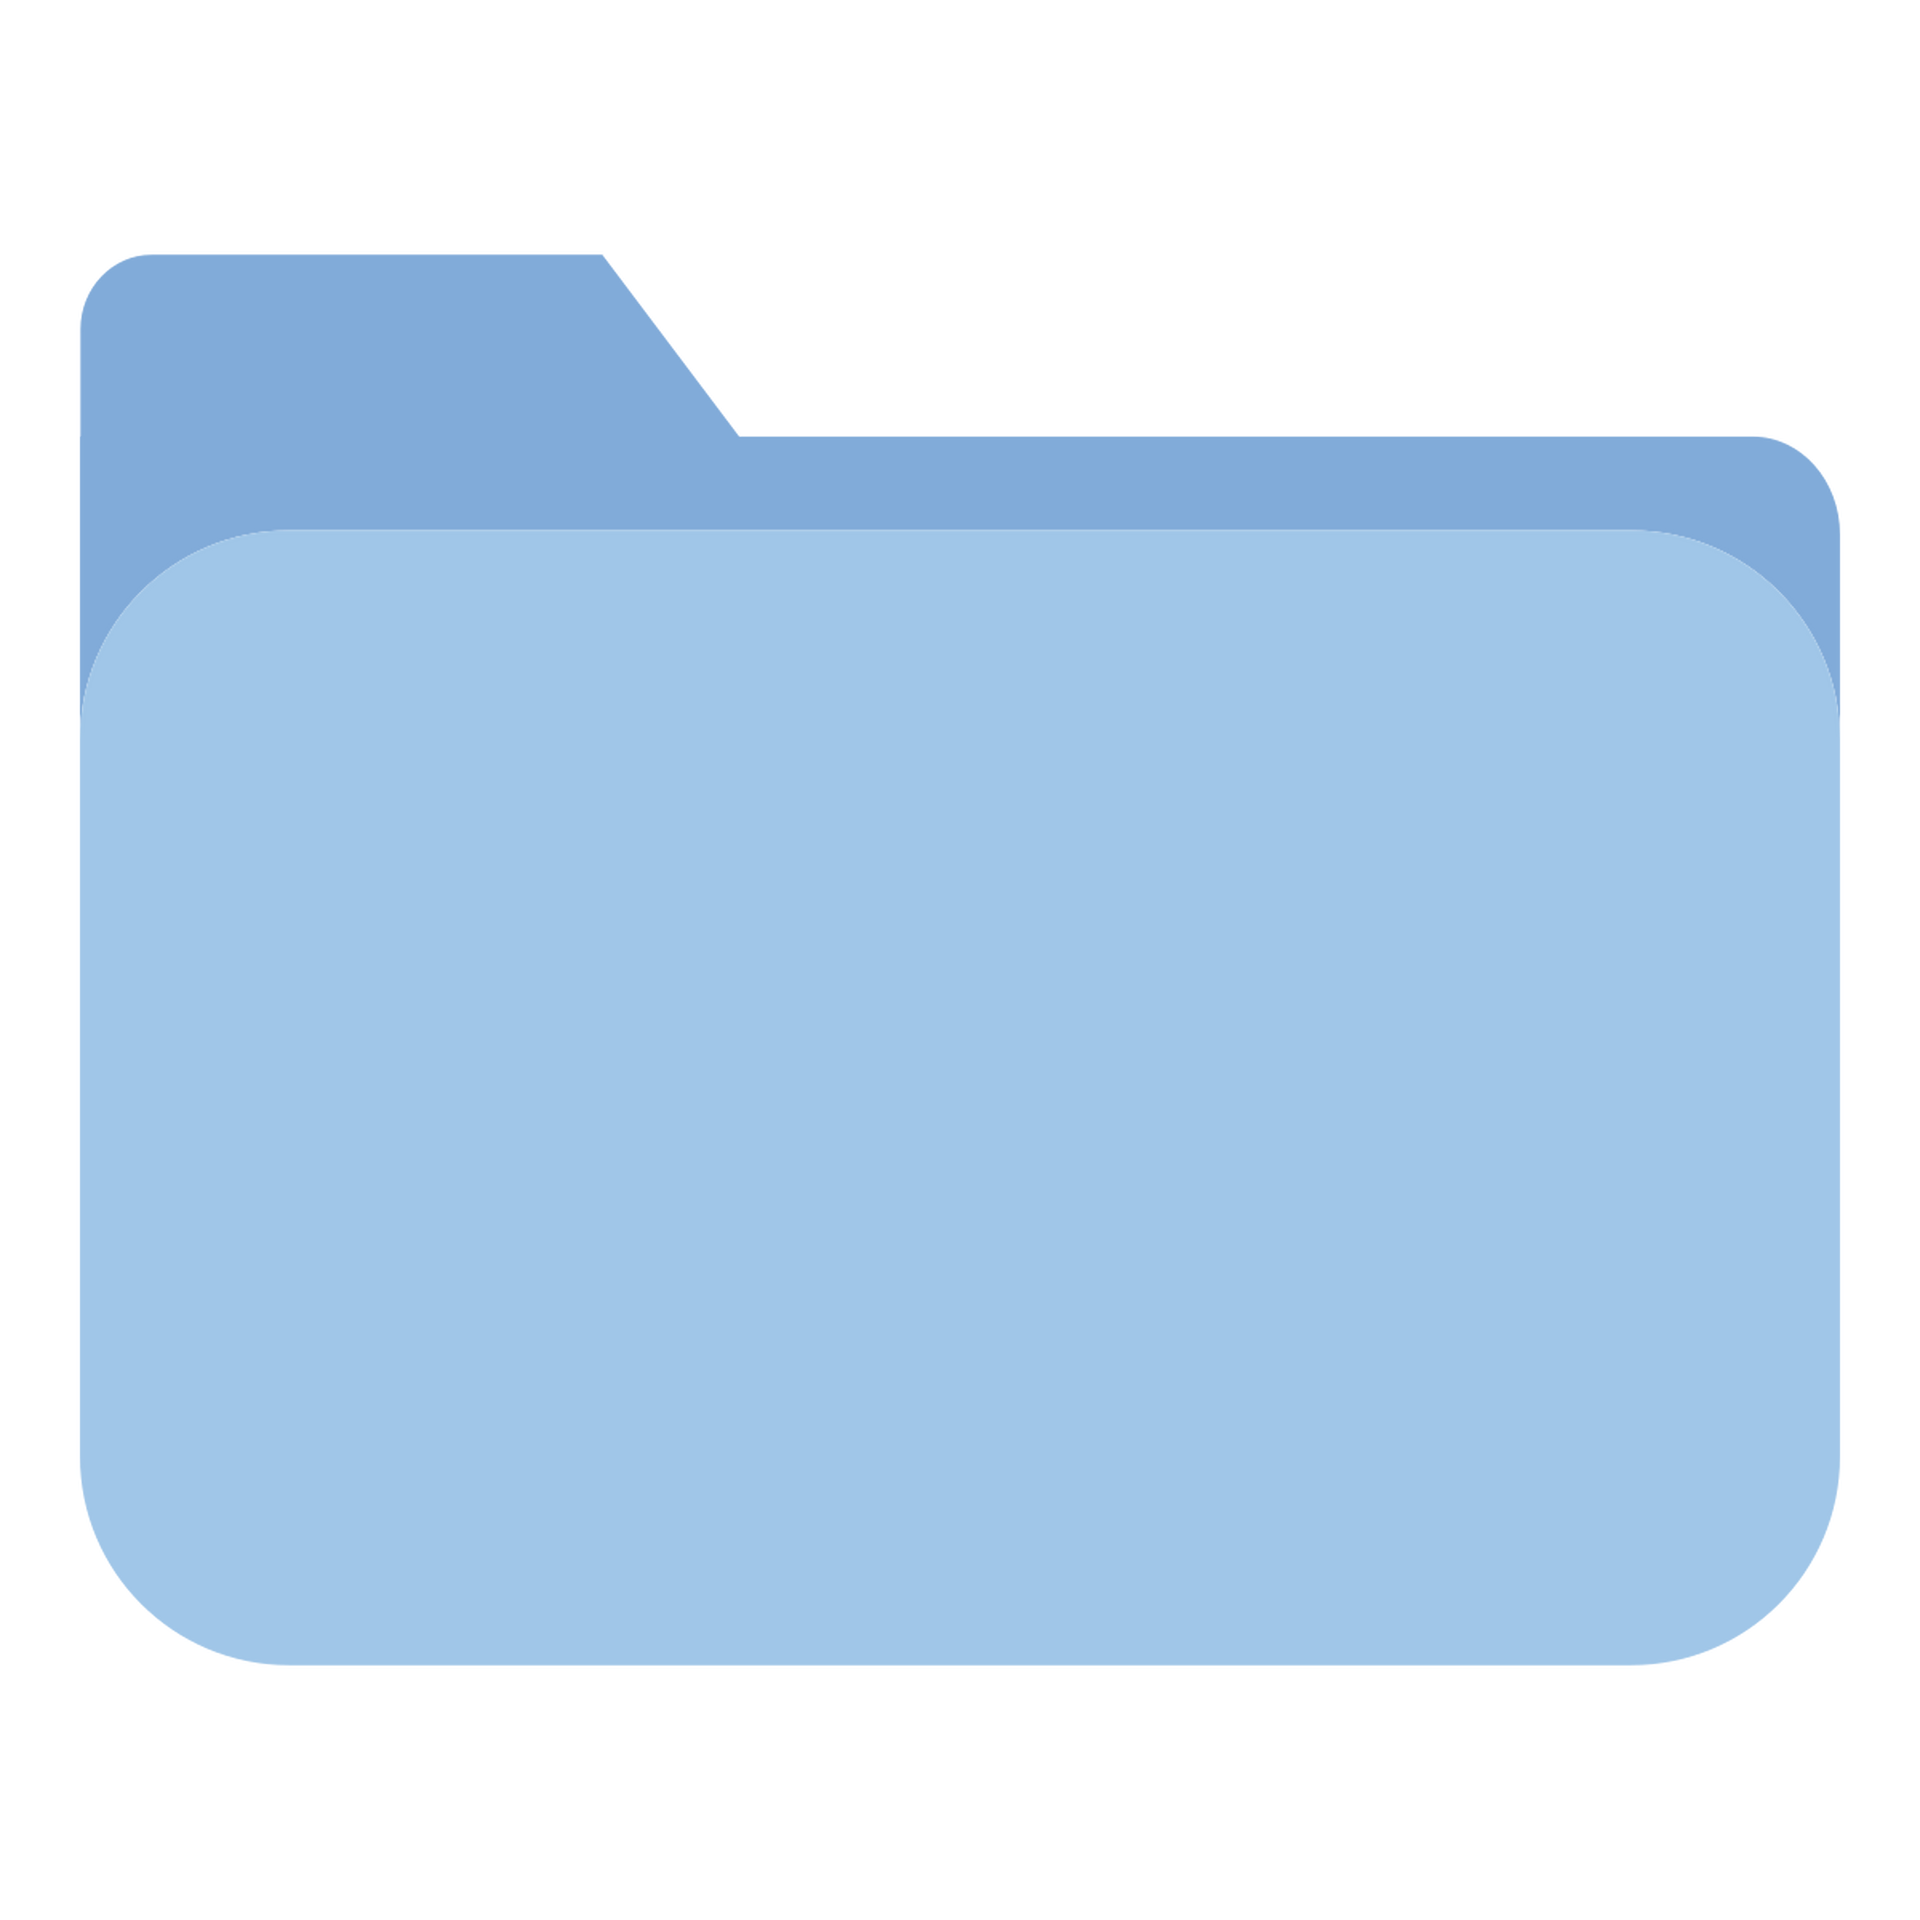
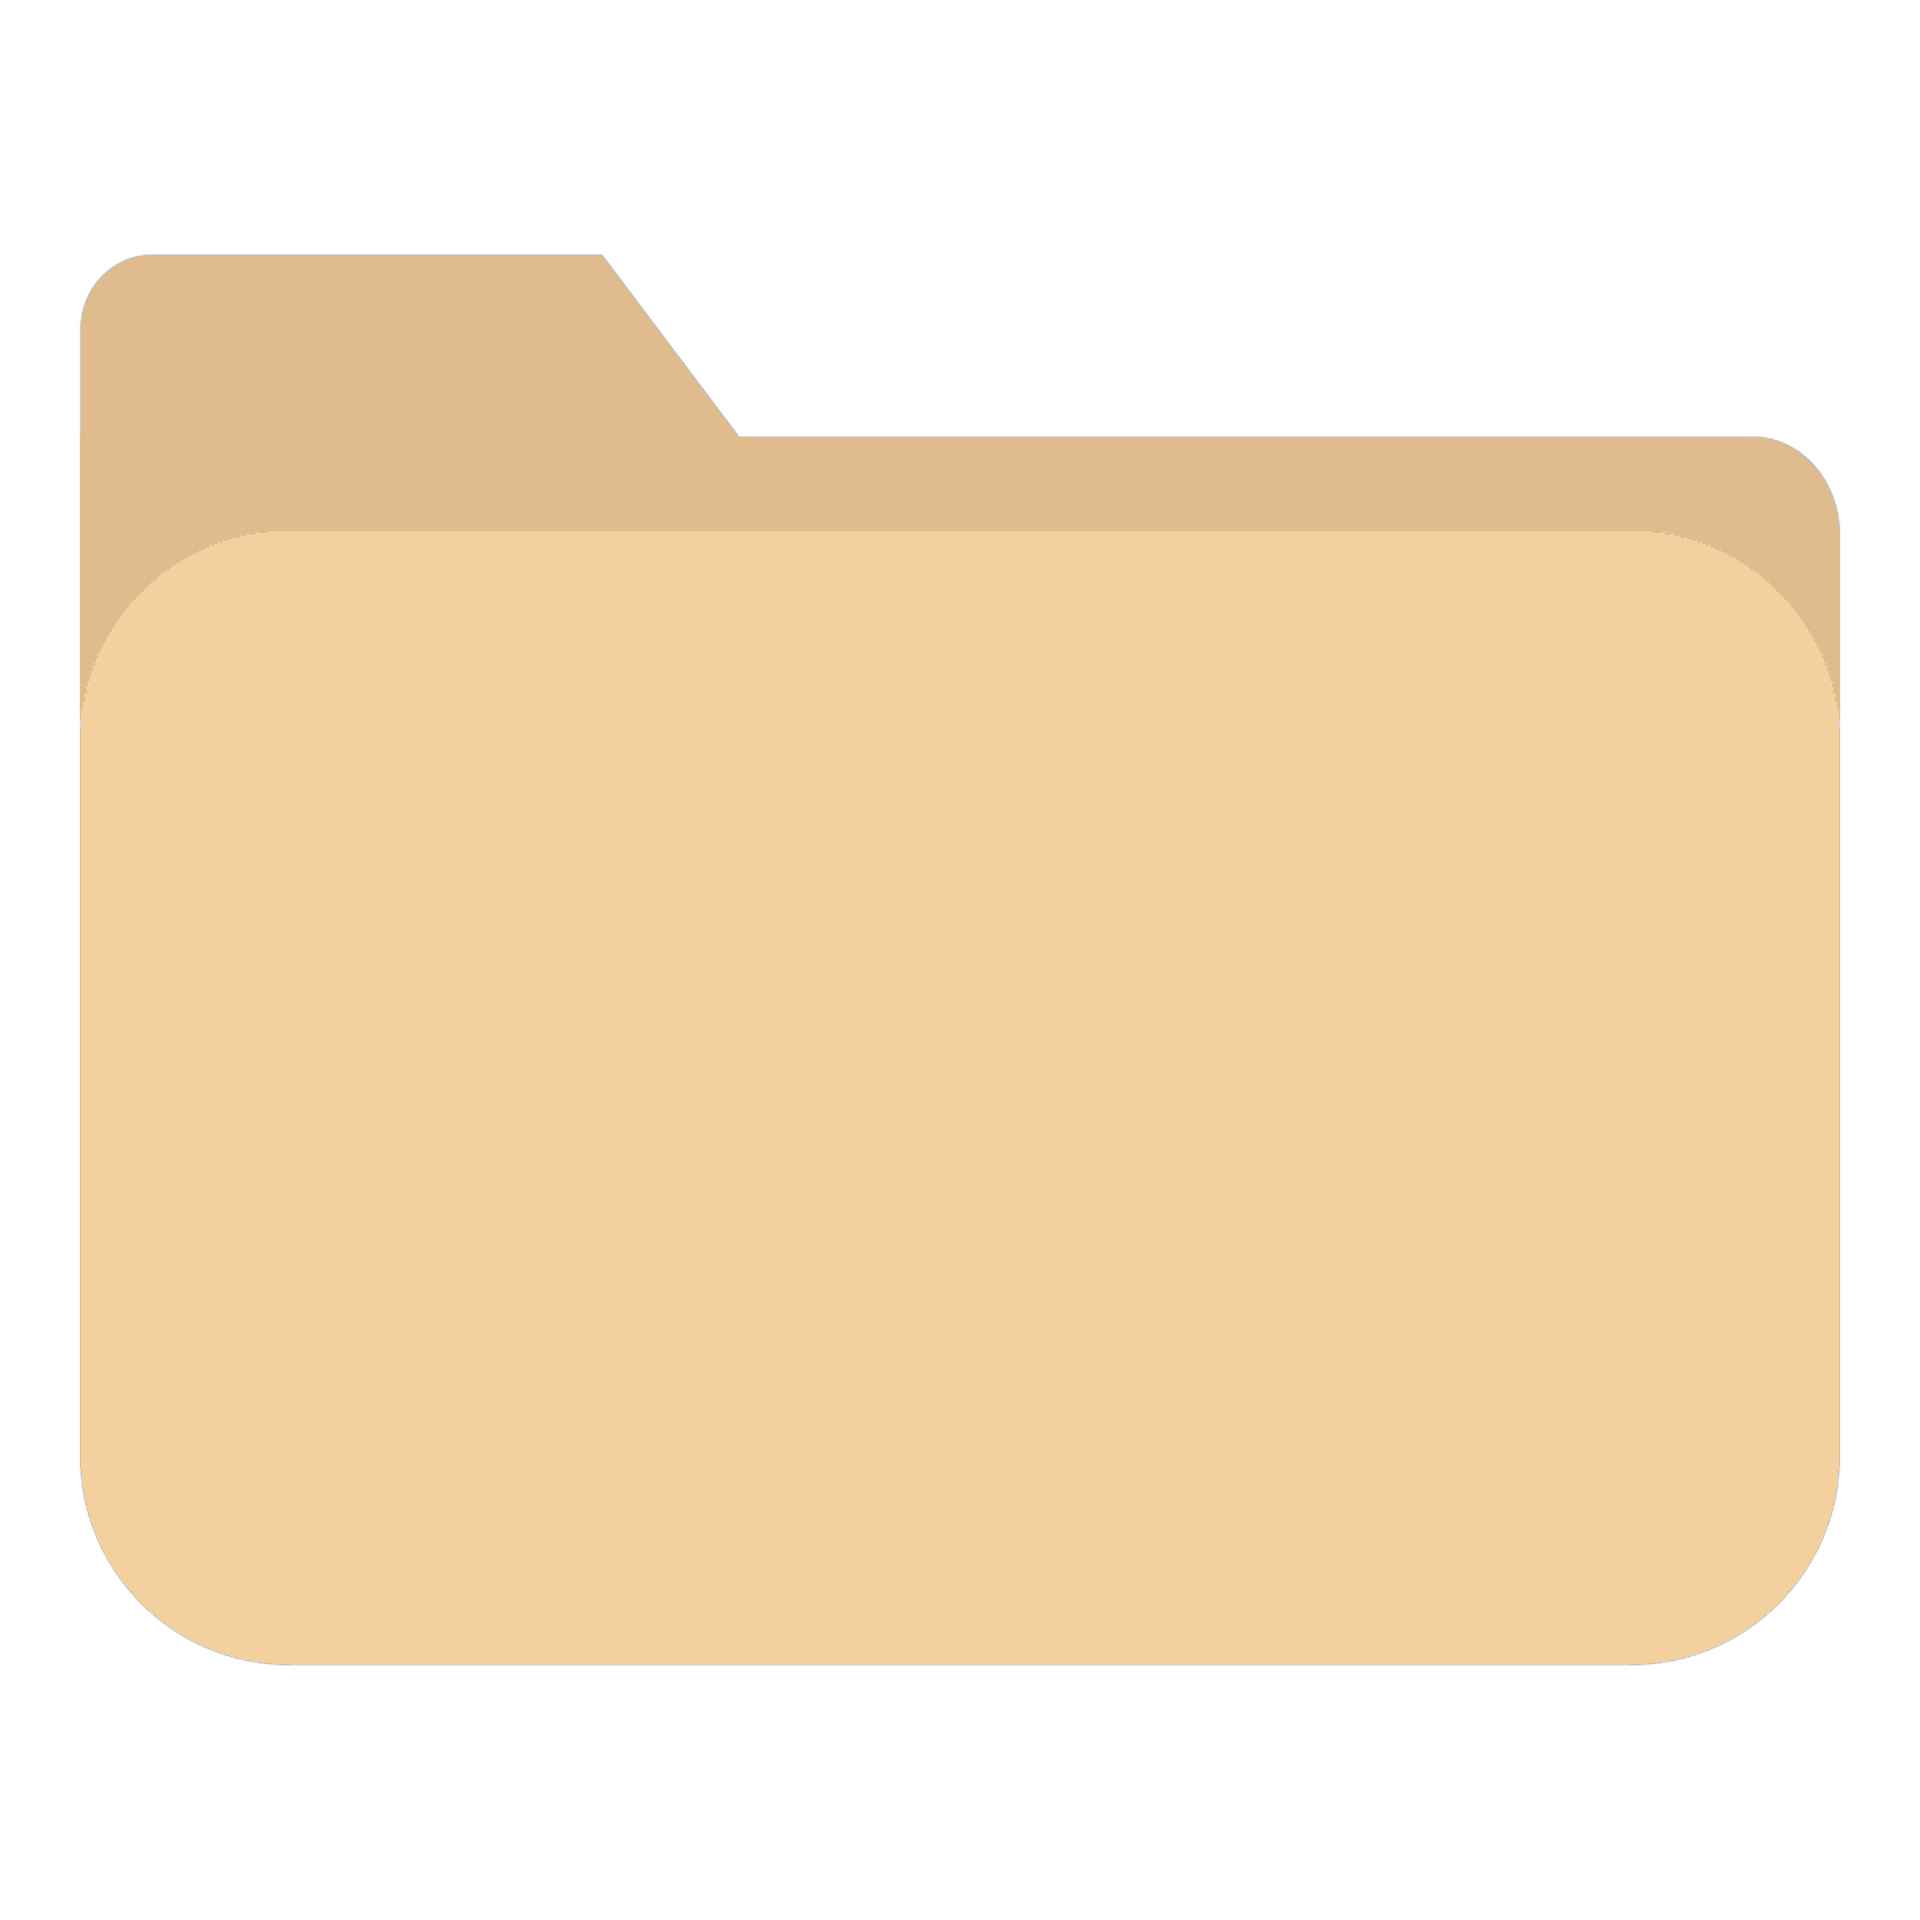
Dune Theme

diff --git a/src/ModuleImGui.cpp b/src/ModuleImGui.cpp
@@ -34,6 +34,29 @@ bool ModuleImGui::Start()
     ImGui::StyleColorsDark();
 
     ImGuiStyle& style = ImGui::GetStyle();
+
+    // Apply desert theme
+    style.Colors[ImGuiCol_Text] = ImVec4(0.40f, 0.32f, 0.23f, 1.00f);
+    style.Colors[ImGuiCol_Button] = ImVec4(0.82f, 0.71f, 0.55f, 1.00f); 
+    style.Colors[ImGuiCol_ButtonHovered] = ImVec4(0.90f, 0.80f, 0.65f, 1.00f); 
+    style.Colors[ImGuiCol_ButtonActive] = ImVec4(0.75f, 0.60f, 0.45f, 1.00f);
+    style.Colors[ImGuiCol_FrameBg] = ImVec4(0.72f, 0.67f, 0.58f, 1.00f);
+    style.Colors[ImGuiCol_FrameBgHovered] = ImVec4(0.77f, 0.72f, 0.63f, 1.00f);
+    style.Colors[ImGuiCol_FrameBgActive] = ImVec4(0.55f, 0.50f, 0.42f, 1.00f);
+    style.Colors[ImGuiCol_Header] = ImVec4(0.82f, 0.71f, 0.55f, 1.00f); 
+    style.Colors[ImGuiCol_HeaderHovered] = ImVec4(0.90f, 0.80f, 0.65f, 1.00f); 
+    style.Colors[ImGuiCol_HeaderActive] = ImVec4(0.75f, 0.60f, 0.45f, 1.00f);
+    style.Colors[ImGuiCol_TitleBg] = ImVec4(0.82f, 0.71f, 0.55f, 1.00f); 
+    style.Colors[ImGuiCol_TitleBgActive] = ImVec4(0.75f, 0.60f, 0.45f, 1.00f); 
+    style.Colors[ImGuiCol_TitleBgCollapsed] = ImVec4(0.82f, 0.71f, 0.55f, 0.50f); 
+    style.Colors[ImGuiCol_CheckMark] = ImVec4(0.24f, 0.17f, 0.12f, 1.00f);
+    style.Colors[ImGuiCol_SliderGrab] = ImVec4(0.45f, 0.38f, 0.30f, 1.00f); 
+    style.Colors[ImGuiCol_SliderGrabActive] = ImVec4(0.38f, 0.32f, 0.25f, 1.00f);
+    style.Colors[ImGuiCol_Tab] = ImVec4(0.82f, 0.71f, 0.55f, 1.00f); 
+    style.Colors[ImGuiCol_TabHovered] = ImVec4(0.90f, 0.80f, 0.65f, 1.00f); 
+    style.Colors[ImGuiCol_TabActive] = ImVec4(0.75f, 0.60f, 0.45f, 1.00f); 
+    style.Colors[ImGuiCol_TabUnfocused] = ImVec4(0.82f, 0.71f, 0.55f, 0.50f); 
+    style.Colors[ImGuiCol_TabUnfocusedActive] = ImVec4(0.75f, 0.60f, 0.45f, 0.50f); 
     if (io.ConfigFlags & ImGuiConfigFlags_ViewportsEnable)
     {
         style.WindowRounding = 0.0f;
